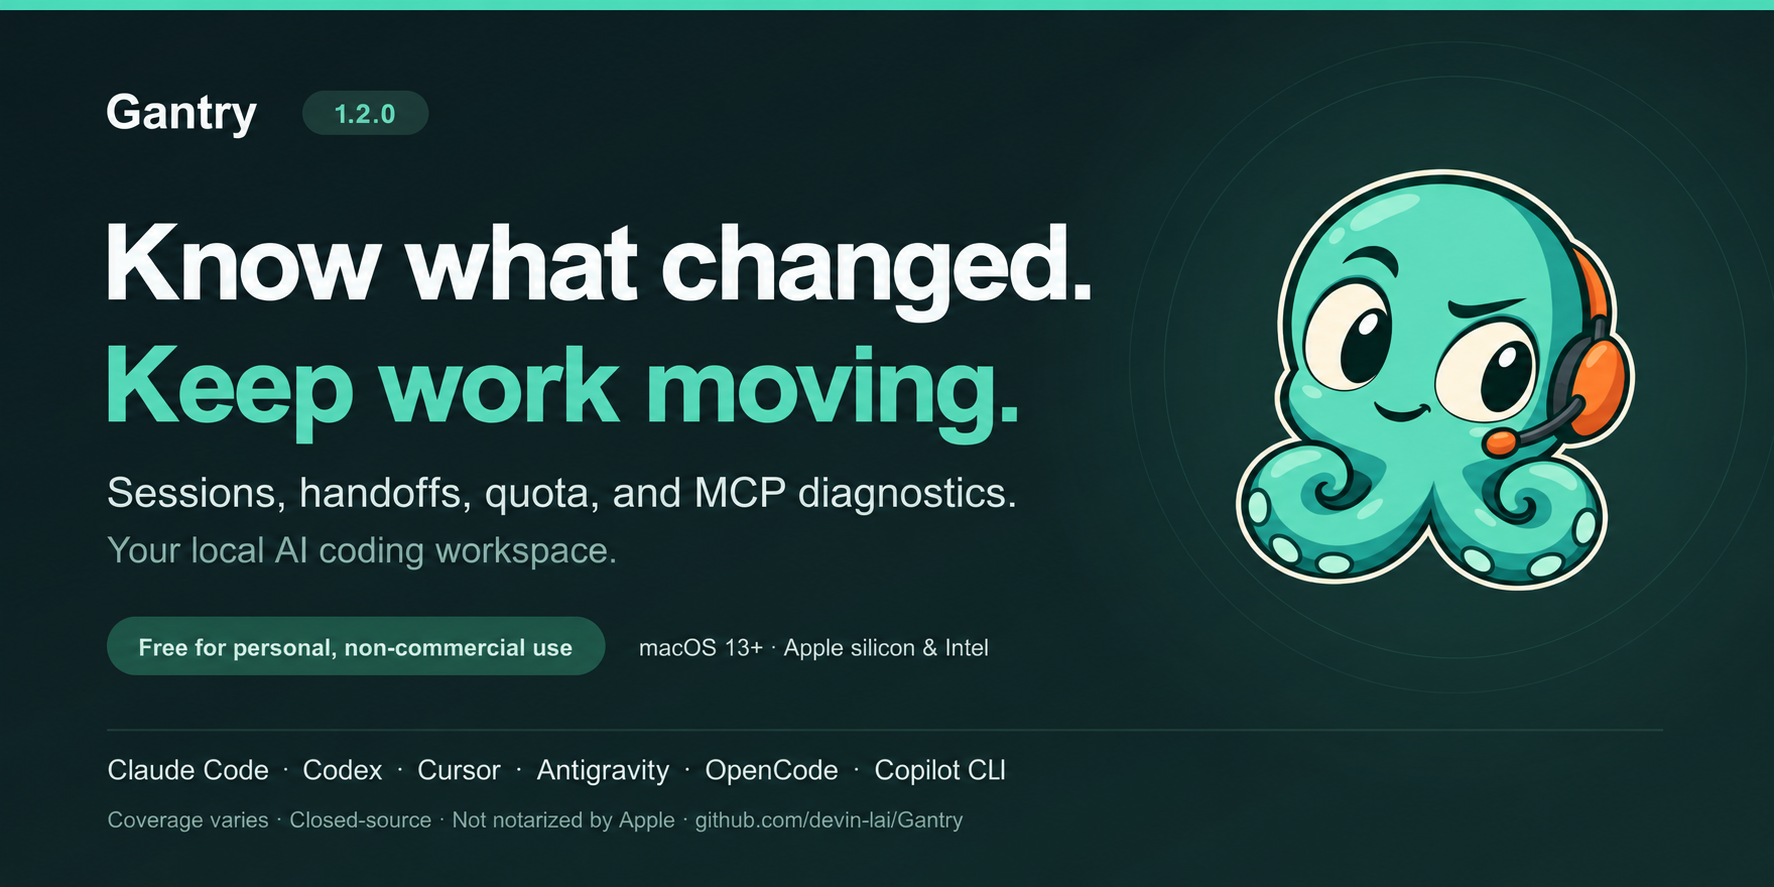
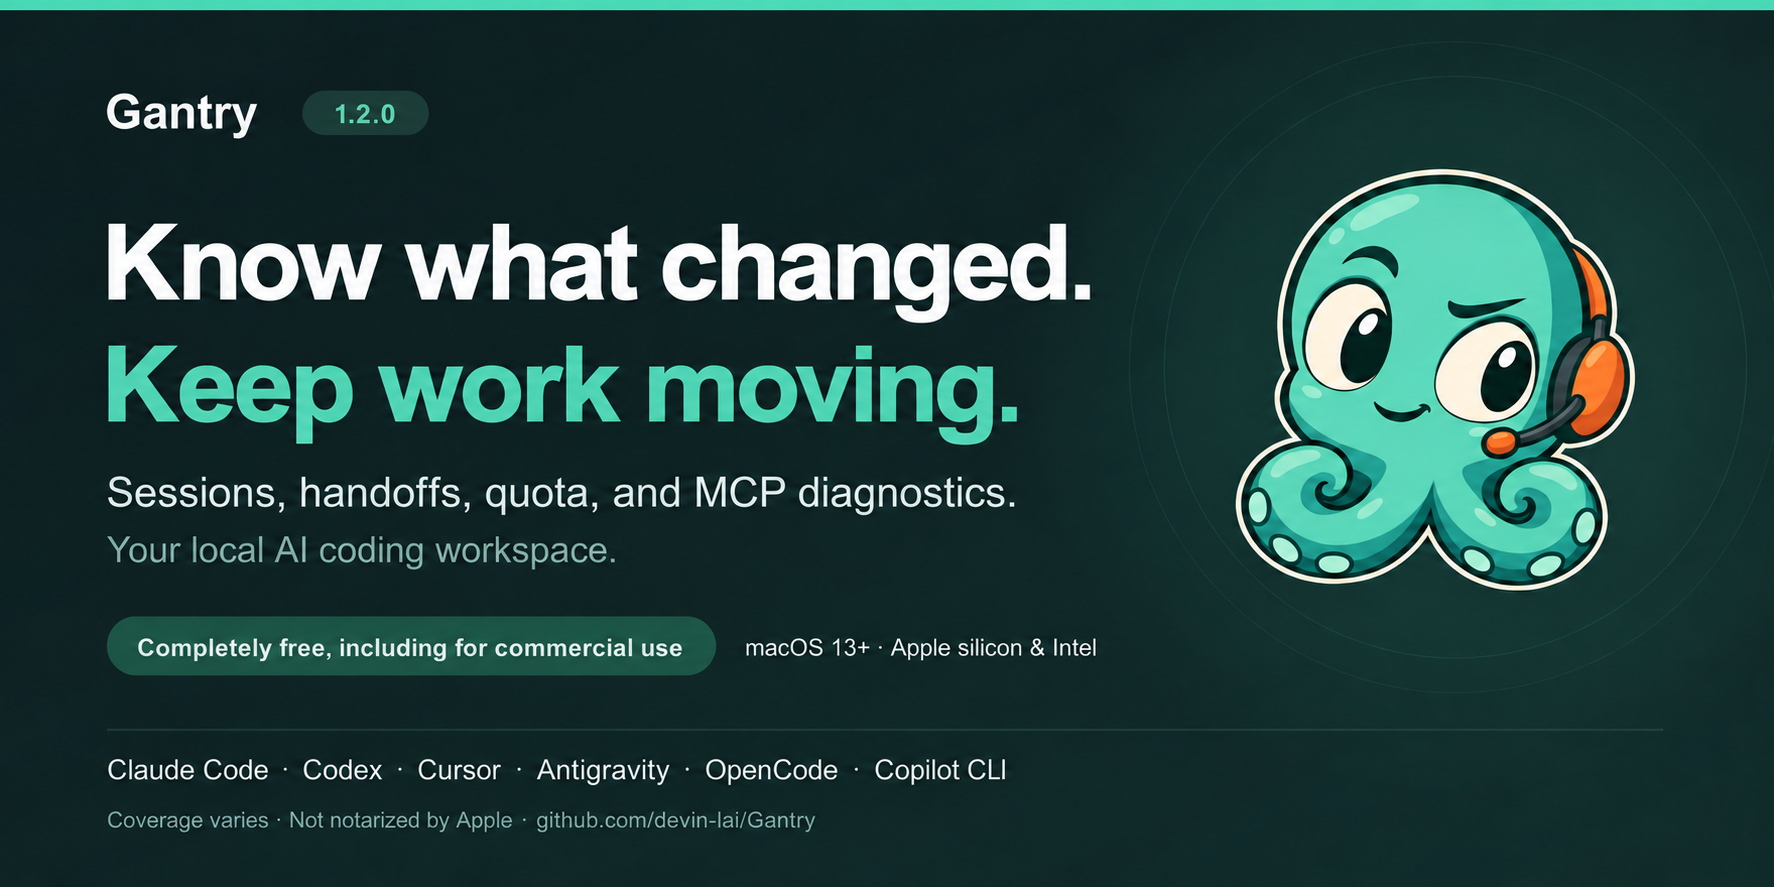
Make Gantry completely free for commercial use

diff --git a/docs/1.2.0-audit.md b/docs/1.2.0-audit.md
@@ -6,8 +6,8 @@ Audited on **October 20, 2026**. This receipt describes the exact download below
 | --- | --- |
 | File | `Gantry-1.2.0.dmg` |
 | Version | 1.2.0, build 119 |
-| Size | 20,059,234 bytes |
[1 lines of base64/hex data omitted]
+| Size | 20,059,200 bytes |
[1 lines of base64/hex data omitted]
 | Architectures | Apple silicon (arm64) and Intel (x86_64) |
 | Minimum macOS | 13.0 in the bundle and both executable architectures |
 | App signature | Valid ad-hoc signature; no signing certificate or Apple team identifier |
@@ -19,7 +19,7 @@ Audited on **October 20, 2026**. This receipt describes the exact download below
 
 ## Build and package
 
-Built in Release from an isolated export of the latest private `release/1.1`
+Built in Release from an isolated export of the latest `release/1.1`
 branch at the start of this release, revision `19f5ea4`, with version 1.2.0
 and build 119 set explicitly. Local signing configuration and untracked files
 were excluded. The build received a minimal environment and used neutral
@@ -38,6 +38,18 @@ icon, and compiled asset catalog. It includes no source, test bundle, developer
 configuration, signing certificate, provisioning profile, private key, account
 database, or personal transcript. Only the DMG and `SHA256SUMS.txt` are uploaded
 as release assets.
+
+## License amendment on October 20, 2026
+
+The DMG was repackaged to include the updated free-use license and matching
+installation text. **Commercial use is free**, including employer and client
+work. All six files in `Gantry.app` are byte-for-byte identical to the first
+1.2.0 download; no app code, resources, entitlements, or signature changed.
[1 lines of base64/hex data omitted]
+amended package. DMG verification, mounted signature verification, all 74
+executable-section comparisons, privacy inspection, and secret scans were
+repeated for this package. The application tests and launch checks below
+are from the unchanged original build.
 
 ## Sensitive-data inspection
 

diff --git a/docs/share.md b/docs/share.md
@@ -9,7 +9,7 @@ documentation, license, first-launch instructions, and checksum together.
 
 > Know what your AI agents changed. Pick up where they left off. Gantry 1.2 brings
 > searchable conversations, changed files, handoff notes, quota, and MCP diagnostics
-> into one native macOS workspace. Free for personal, non-commercial use; source is private.
+> into one native macOS workspace. Completely free, including for commercial use.
 
 ## A little more context
 
@@ -23,15 +23,15 @@ documentation, license, first-launch instructions, and checksum together.
 ## 简短介绍
 
 > 看清 AI 改了什么，从上次停下的地方继续。Gantry 1.2 将可搜索的对话、文件变化、
-> 交接说明、配额和 MCP 诊断汇集到原生 macOS 工作台。个人非商业用途免费；
-> 应用源代码保持私有。当前版本未经 Apple 公证，请先阅读安装说明。
+> 交接说明、配额和 MCP 诊断汇集到原生 macOS 工作台。完全免费，包括商业用途。
+> 当前版本未经 Apple 公证，请先阅读安装说明。
 
 ## What to keep clear
 
 - Gantry is an independent companion app; tool coverage varies. Quota coverage is for Claude Code and Codex. Cursor includes desktop history and search, with usage, cost, and quota unavailable.
 - Costs are estimates at API rates, and quotas are locally cached readings. Avoid presenting them as billing data or promising savings.
 - Changed files come from recorded edit tools; Git checks do not establish who owns a change. Handoff notes contain recorded content, not a newly generated model summary.
-- The release is free for personal, non-commercial use. Commercial, employer, and client use requires separate permission.
+- Gantry is completely free, including for commercial use. No separate permission is needed for business, employer, or client use.
 - Link to the official download rather than rehosting the DMG. The [license](../LICENSE) does not grant a general reuse license for branding, artwork, or documentation.
 - Use synthetic examples when discussing a workflow. Never share private session content, credentials, account identifiers, or unredacted diagnostics.
 

diff --git a/README.md b/README.md
@@ -6,8 +6,8 @@
   <p>
     <a href="https://github.com/devin-lai/Gantry/releases/download/v1.2.0/Gantry-1.2.0.dmg"><img src="https://img.shields.io/badge/Download_for_macOS-v1.2.0-168577?style=for-the-badge&amp;logo=apple&amp;logoColor=white" alt="Download Gantry 1.2.0 for macOS"></a>
   </p>
-  <p><strong>Native macOS · Apple silicon &amp; Intel · macOS 13+<br>Free for personal, non-commercial use · No Gantry account · No analytics telemetry</strong></p>
-  <p>Ad-hoc signed; <strong>not notarized by Apple</strong>. <a href="docs/getting-started.md">First-launch instructions</a> · Application source is private.</p>
+  <p><strong>Native macOS · Apple silicon &amp; Intel · macOS 13+<br>Completely free, including for commercial use · No Gantry account · No analytics telemetry</strong></p>
+  <p>Ad-hoc signed; <strong>not notarized by Apple</strong>. <a href="docs/getting-started.md">First-launch instructions</a>.</p>
   <p><strong>English</strong> · <a href="README.zh-CN.md">简体中文</a></p>
   <p>
     <a href="#new-in-12-from-conversation-to-continuation">What's new</a> ·
@@ -107,6 +107,6 @@ If Gantry helps you get back to work, **star this repository** so others can fin
 
 ## License
 
-**Free for personal, non-commercial use only.** Gantry is proprietary software. This repository hosts documentation, feedback, and binary releases; the application source is private. Commercial, employer, and client use requires separate permission. See [LICENSE](LICENSE).
+**Completely free, including for commercial use.** Use Gantry for personal projects, at work, or with clients without charge or separate permission. See [LICENSE](LICENSE).
 
 Gantry is independent and is not affiliated with the makers of the supported coding tools.

diff --git a/docs/releases/1.2.0.md b/docs/releases/1.2.0.md
@@ -6,7 +6,7 @@ Your agent stopped. Your work doesn't have to.
 file changes, check what is still uncommitted, copy a handoff note, and inspect
 the configuration your next session will use.
 
-**Native macOS · macOS 13+ · Apple silicon & Intel · Free for personal, non-commercial use**
+**Native macOS · macOS 13+ · Apple silicon & Intel · Completely free, including for commercial use**
 
 [**Download Gantry-1.2.0.dmg**](https://github.com/devin-lai/Gantry/releases/download/v1.2.0/Gantry-1.2.0.dmg) ·
 [Installation guide](https://github.com/devin-lai/Gantry/blob/main/docs/getting-started.md) ·
@@ -96,8 +96,12 @@ if macOS blocks it. The checksum identifies the bytes; it is not Apple
 approval or publisher authentication.
 
 ```text
-3584f6014ae80715d879f7bbaeea1e9cbf2033b510d3fbadf5e5990dabd90af3  Gantry-1.2.0.dmg
+041e51a52f34f87cf549ac4e1e33f4106675e082fca4b10ac89413a629e4497a  Gantry-1.2.0.dmg
 ```
+
+**Packaging update — October 20, 2026:** the included license and installation
+text now confirm free commercial use. The app remains the same 1.2.0 build 119;
+the repackaged DMG has the checksum above.
 
 Download `SHA256SUMS.txt` alongside the DMG. The
 [artifact audit](https://github.com/devin-lai/Gantry/blob/main/docs/1.2.0-audit.md)
@@ -126,5 +130,5 @@ If Gantry is useful to you, **star the repository** and
 [Report a bug or suggest a workflow](https://github.com/devin-lai/Gantry/issues/new/choose)
 with a redacted example.
 
-Gantry is proprietary software, free for personal, non-commercial use.
-Commercial, employer, and client use requires separate permission.
+**Completely free, including for commercial use.** Personal projects, business,
+employer, and client use are permitted without charge or separate permission.

diff --git a/docs/faq.md b/docs/faq.md
@@ -1,16 +1,15 @@
 # Frequently asked questions
 
-### Is Gantry open source?
+### Which file should I install?
 
-No. This repository contains public documentation, feedback, and binary
-releases. The application source remains private. GitHub-generated source
-archives contain this repository's documentation and artwork, not the app
-implementation. Install the DMG from a published release.
+Download the DMG from the [official release page](https://github.com/devin-lai/Gantry/releases/latest).
+Follow the [installation guide](getting-started.md) to verify it and install Gantry.
 
 ### Is it free?
 
-Official binaries are free for personal, non-commercial use. Business,
-employer, and client use requires separate permission. See [LICENSE](../LICENSE).
+**Completely free, including for commercial use.** Personal projects, business,
+employer, and client use are all permitted without charge or separate permission.
+This also applies to previously downloaded official releases. See [LICENSE](../LICENSE).
 
 ### Do I need all six agents?
 
@@ -78,8 +77,8 @@ Use **Load session details** where offered. Files that are missing,
 unsupported, malformed, changing, or over the read limits may still be
 incomplete. See [compatibility](compatibility.md).
 
-### Can I help without access to the source?
+### How can I help?
 
-Yes: describe a reproducible bug, suggest a useful workflow, or improve the
+Describe a reproducible bug, suggest a useful workflow, or improve the
 public documentation. See [CONTRIBUTING.md](../CONTRIBUTING.md). Share links to the
 official release rather than redistributing the binary.

diff --git a/docs/releases/1.1.0.md b/docs/releases/1.1.0.md
@@ -6,7 +6,7 @@ Your agents keep working. Gantry helps you see where they left off.
 session records to your Mac — alongside the quota, context, MCP diagnostics,
 and previewable setup fixes you already know.
 
-**macOS 13+ · Apple silicon & Intel · Free for personal, non-commercial use**
+**macOS 13+ · Apple silicon & Intel · Completely free, including for commercial use**
 
 [Download Gantry 1.1.0](https://github.com/devin-lai/Gantry/releases/download/v1.1.0/Gantry-1.1.0.dmg) ·
 [Installation guide](https://github.com/devin-lai/Gantry/blob/main/docs/getting-started.md) ·
@@ -84,7 +84,7 @@ disabled by default.
 
 [Artifact audit](https://github.com/devin-lai/Gantry/blob/main/docs/1.1.0-audit.md) ·
 [Privacy](https://github.com/devin-lai/Gantry/blob/main/PRIVACY.md) ·
-[Personal-use license](https://github.com/devin-lai/Gantry/blob/main/LICENSE)
+[License](https://github.com/devin-lai/Gantry/blob/main/LICENSE)
 
 ## Help shape the next release
 
@@ -95,5 +95,6 @@ transcripts out of public reports.
 
 If Gantry helps you, **star the repository** and
 [share it with another agent user](https://github.com/devin-lai/Gantry).
-Gantry is proprietary software; this repository hosts documentation, feedback,
-and downloads. Commercial, employer, and client use requires separate permission.
+**Completely free, including for commercial use.** The current
+[license](https://github.com/devin-lai/Gantry/blob/main/LICENSE) also covers
+previously downloaded official releases and supersedes earlier use restrictions.

diff --git a/CONTRIBUTING.md b/CONTRIBUTING.md
@@ -1,13 +1,11 @@
 # Help improve Gantry
 
 Bug reports, workflow suggestions, and documentation improvements are welcome.
-The application source is private, so this repository does not accept changes
-to the application's implementation.
 
 Before opening an issue, search existing reports and include the Gantry build,
 macOS version, relevant agent version, and a minimal description of the problem.
 You do not need to attach your session history. For documentation, open a small
-pull request explaining the correction; do not include proprietary source or
+pull request explaining the correction; do not include confidential code or
 internal development files.
 
 Review every report or screenshot before sharing. Remove API keys, tokens,
@@ -21,4 +19,4 @@ Be constructive, describe the evidence, and respect other users' privacy.
 For documentation or translation corrections, use the
 [documentation form](https://github.com/devin-lai/Gantry/issues/new?template=documentation.yml)
 or open a small pull request. Keep the English and Chinese introductions aligned
-on tool coverage, privacy, release signing, and the personal-use license.
+on tool coverage, privacy, release signing, and free commercial use.

diff --git a/docs/build79-audit.md b/docs/build79-audit.md
@@ -26,7 +26,7 @@ personal build paths in this candidate. Apparent token substrings in compiled
 symbol names and random compressed-image bytes were reviewed as false positives.
 
 The image contains the app, an Applications shortcut, installation notes, the
-personal-use license, and privacy notes. No source files, dSYM bundles,
+license, and privacy notes. No source files, dSYM bundles,
 provisioning profiles, private keys, account databases, personal session
 transcripts, or developer configuration files are included.
 
